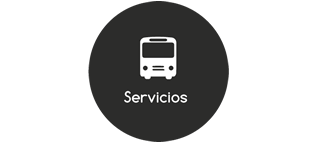
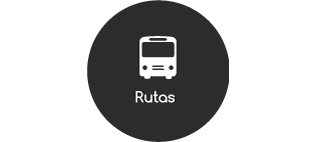
Avanzando ajustes

diff --git a/views/calificar.html b/views/calificar.html
@@ -1,16 +1,16 @@
 <div class="calificar">
-	<h1>¿Amaste Tuzo Autobús App?</h1>
+	<h1>¿Amaste Tuzo Autobús?</h1>
 	<div class="text-center">
-		<div class="col-xs-6"><button class="btn bnt-lg btn-default col-xs-12" ng-click="calificar('si');"><img src="assets/img/calificar_si.png"> SI</button></div>
+		<div class="col-xs-6"><button class="btn bnt-lg btn-default col-xs-12" ng-click="calificar('si');"><img src="assets/img/calificar_si.png"> SÍ</button></div>
 		<div class="col-xs-6"><button class="btn bnt-lg btn-default col-xs-12" ng-click="calificar('no');"><img src="assets/img/calificar_no.png"> NO</button></div>
 		<div class="col-xs-12 calificar_si text-center">
-			<p>¡Gracias!<br>Nos hace felices que te guste Tuzo Autobús App. Sería realmente de mucha ayuda si nos calificas.</p>
+			<p>¡Gracias!<br>Nos hace felices que te guste Tuzo Autobús . Sería realmente de mucha ayuda si nos calificas.</p>
 			<p>Muchas gracias por darte el tiempo.</p>
-			<button class="btn btn-lg success col-xs-12" ng-click="rank()">Calificar Tuzo Autobús App</button>
+			<button class="btn btn-lg success col-xs-12" ng-click="rank()">Calificar Tuzo Autobús </button>
 			<button class="btn btn-lg col-xs-12" ng-click="cancel()">En otro momento</button>
 		</div>
 		<div class="col-xs-12 calificar_no text-center">
-			<p>¿Qué podemos hacer para mejorar tu experiencia en Tuzo Autobús App?</p>
+			<p>¿Qué podemos hacer para mejorar tu experiencia en Tuzo Autobús?</p>
 			<p>Apreciamos tus comentarios.</p>
 			<div class="input-group col-xs-12">
 				<span class="input-group-addon">@</span>

diff --git a/app/controllers.js b/app/controllers.js
@@ -284,7 +284,7 @@ tuzobusController.controller('tbEstacionesCercanas', ['$scope', 'filterFilter', 
       'latitude': position.coords.latitude,
       'longitude': position.coords.longitude
     }
-    //var presition = 0.0045;
+    //var presition = 0.0055;
     var presition = 1.004;
     var estaciones = [];
     var la_ls = parseFloat(search.latitude) + presition, la_li = parseFloat(search.latitude) - presition;
@@ -300,7 +300,7 @@ tuzobusController.controller('tbEstacionesCercanas', ['$scope', 'filterFilter', 
   }
 
   function posError (error){
-    $('#locationStatus').removeClass('hide').addClass('alert-warning').html('<strong>ERROR</strong><br>No pudimos detectar tu pocición<br><div class="text-center"><button class="btn btn-primary" onclick="location.reload(true);">Volver a intentar</button></div>');
+    $('#locationStatus').removeClass('hide').addClass('alert-warning').html('<strong>ERROR</strong><br>No pudimos detectar tu posición<br><div class="text-center"><button class="btn btn-primary" onclick="location.reload(true);">Volver a intentar</button></div>');
     //alert('Error: '+ error.code + '\n' + 'Mensaje: '+ error.message + '\n');
   }
 

diff --git a/views/horarios.html b/views/horarios.html
@@ -1,8 +1,8 @@
 	<h1>Horarios</h1>
 <div class="horarios">
 	<ul>
-		<li>Lunes a Viernes<br>{{horarios.lv}}</li>
-		<li>Sábado<br>{{horarios.sd}}</li>
-		<li>Domingo<br>{{horarios.fes}}</li>
+		<li>Lunes a Viernes<br>5:00 a 23:00 horas</li>
+		<li>Sábado<br>6:00 a 22:30 horas</li>
+		<li>Domingo<br>7:00 a 22:00 horas</li>
 	</ul>
 </div>

diff --git a/views/comoUsar.html b/views/comoUsar.html
@@ -8,7 +8,7 @@
 		<img src="assets/img/tutorial_1.png"><br><br>
 		<img src="assets/img/tutorial_2.png"><br><br>
 	</div>
-	<p>Consulta los servcios express haciendo click en ésta opción:</p>
+	<p>Consulta las Rutas Exprés haciendo click en ésta opción:</p>
 	<div class="text-center">
 		<img src="assets/img/tutorial_3.png">
 	</div>

diff --git a/views/index.html b/views/index.html
@@ -8,7 +8,7 @@
 	</a></div>
 	<div><a href="#/servicios">
 		<img src="assets/img/big_bus.png">
-		Servicios
+		Rutas
 	</a></div>
 </div>
 <div id="activate_form" class="text-center">
